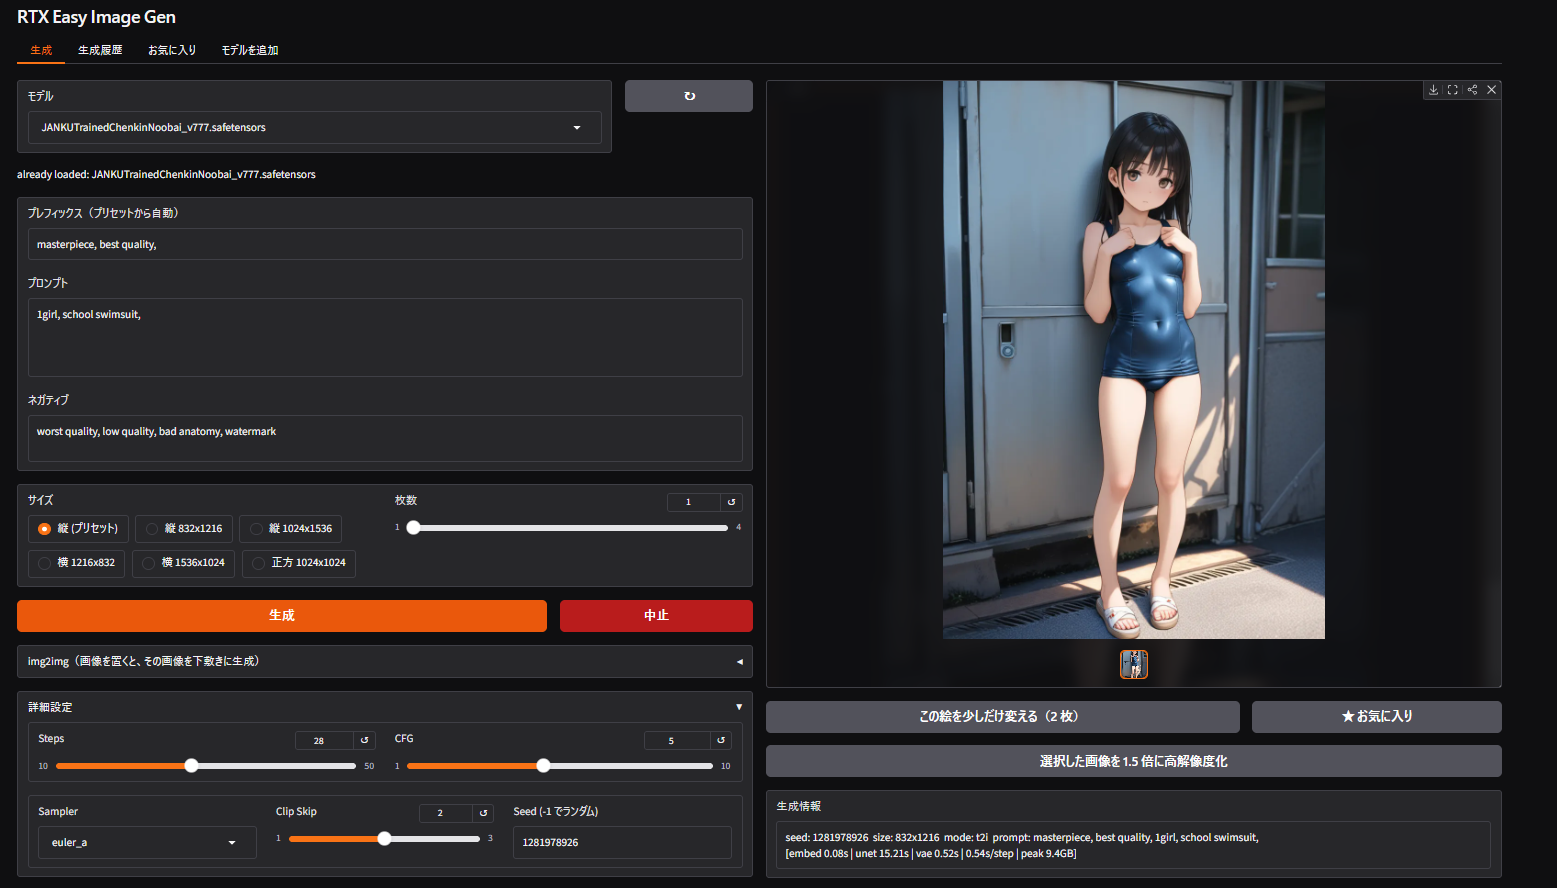
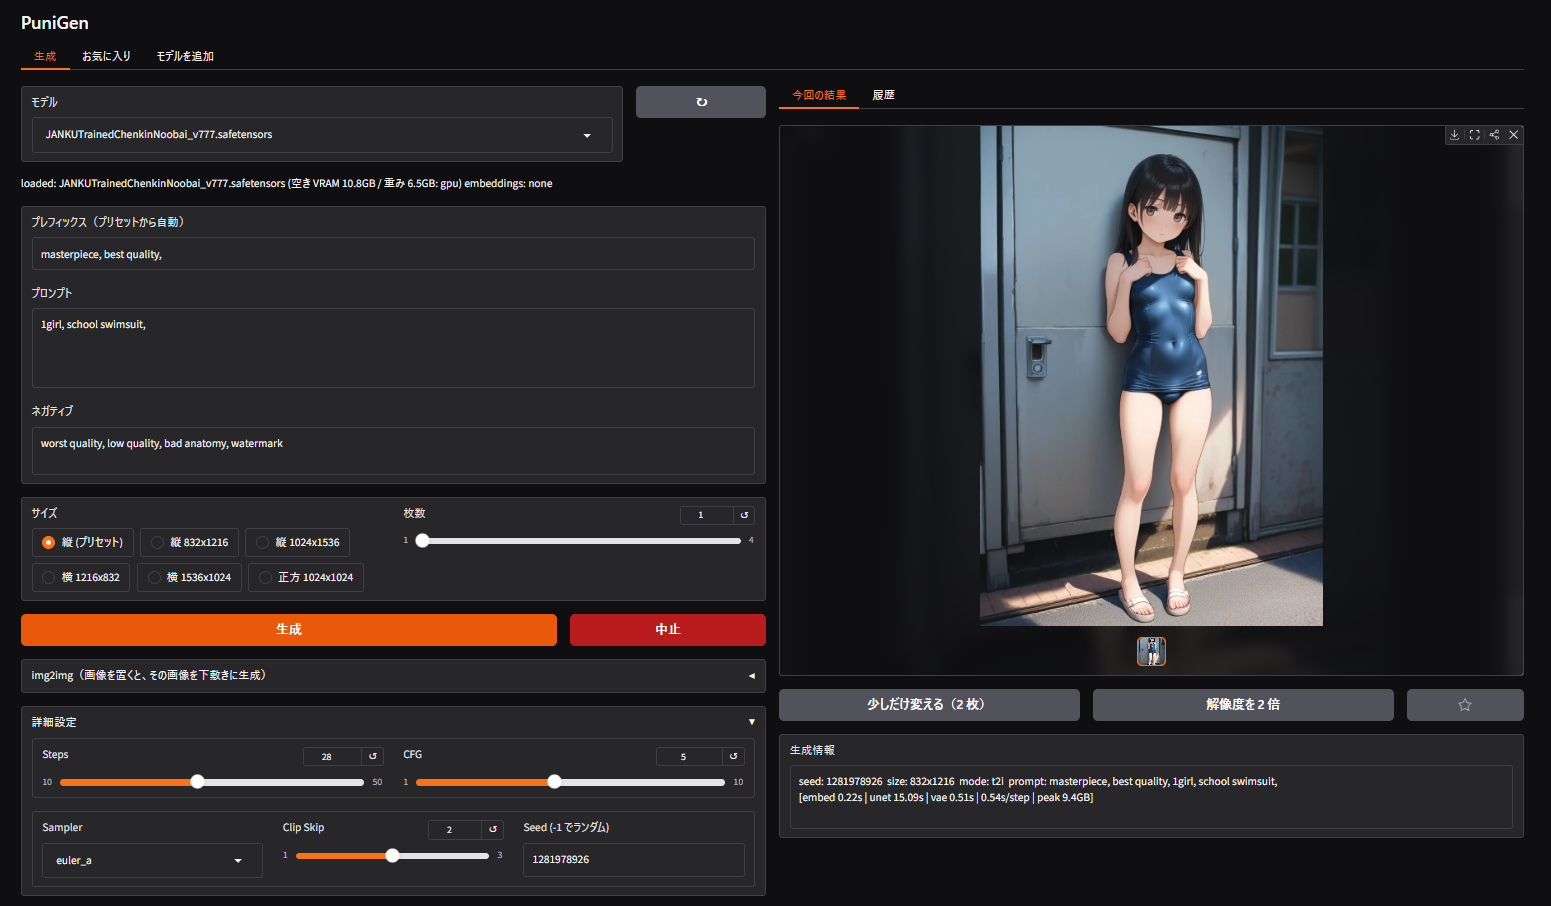
README を書き直し、スクリーンショットを差し替え
冒頭の説明を実態に合わせ、LoRA / ControlNet 未対応であることを明記。
使わなくなった screenshot1.png を削除。

Changed region(s): [[0.0, 0.0, 0.9903, 1.0], [0.1857, 0.9122, 0.2166, 0.9426]]

diff --git a/README.md b/README.md
@@ -1,14 +1,10 @@
 # PuniGen
-
-**P**uni **U**ses **N**o **I**ntricacy.
-diffusers ベースの SDXL / Illustrious 系画像生成ツール。
+PuniGen（ぷにじぇん）はdiffusers ベースの SDXL / Illustrious 系画像生成ツールです。
 setup.bat と start.bat を順に実行すれば動きます。
+複雑なことはできません。手元にグラボがあるからとりあえず画像生成を試してみたい方にお勧めです。
+現状、LoRAやControlNetには対応していません。必要な方はComfyUIを使ってください。LoRAにはそのうち対応する予定です。
 
 ![PuniGen の画面](docs/screenshot0.png)
-
-![PuniGen の画面](docs/screenshot1.png)
-
-
 
 ## 主な機能
 
@@ -256,3 +252,5 @@ outputs/20260822_154812_123456789.png
 [MIT License](LICENSE) — Copyright (c) 2026 Nozomu
 
 本ツール自体のライセンスであり、生成した画像やダウンロードしたモデルには適用されません。チェックポイントや embedding には配布元それぞれの利用規約があるので、そちらを確認してください。
+
+
